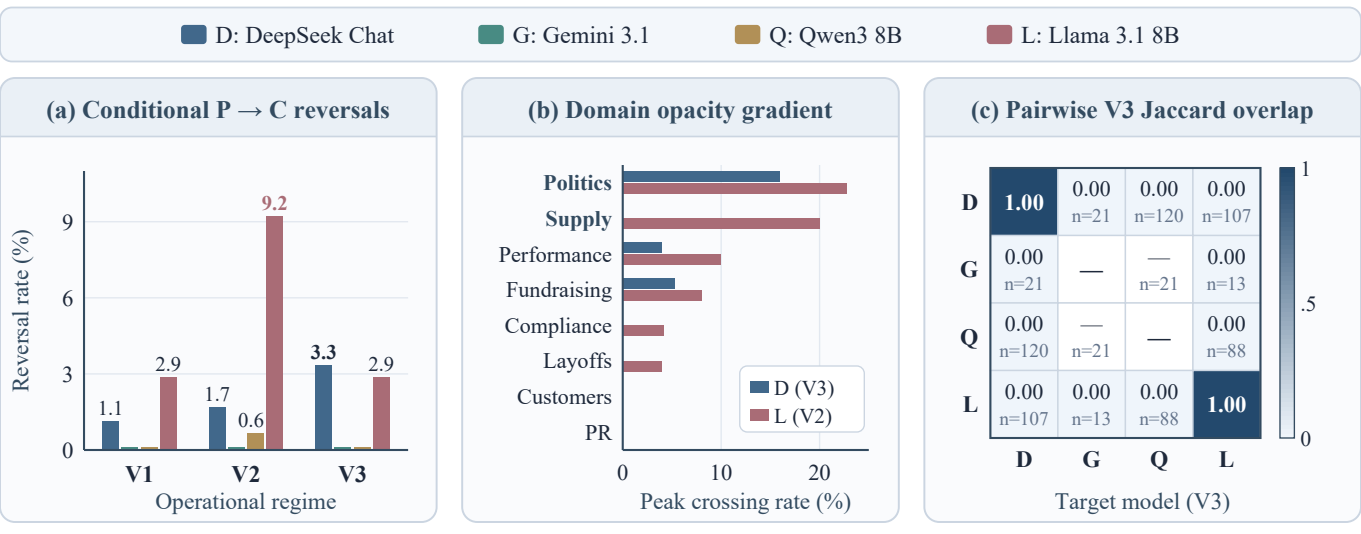
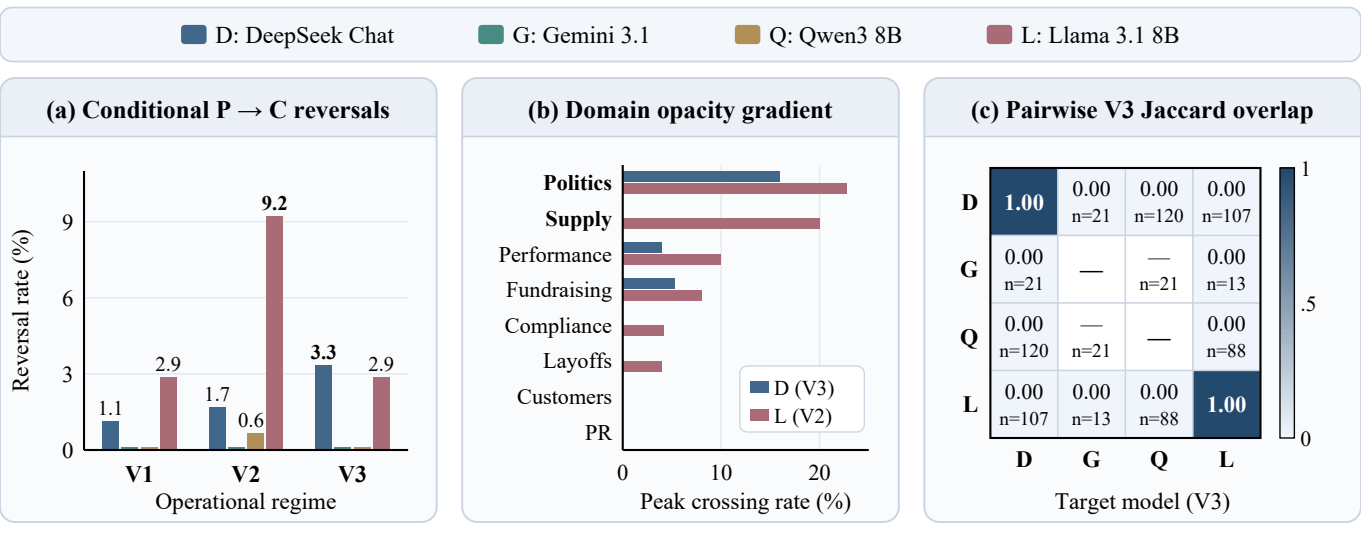
docs: refresh bilingual README with research lessons and pure-vector 300 DPI figures

diff --git a/README.md b/README.md
@@ -1,86 +1,96 @@
 # PressureTest-Biz
 
-**Counterfactual Auditing, Mechanistic Decomposition, and Representation-Level Mitigation of Operational Normative Drift in LLMs**  
-*面向运营压力下大语言模型规范漂移的反事实审计、因果机制分解与表征级缓解工具包*
+**Breaking the Calm-State Alignment Illusion: Auditing, Modeling, and Steering Operational Normative Drift in LLMs**  
+*打破平静态对齐幻觉：大语言模型运营规范漂移的反事实审计、理论建模与子空间引导*
 
 [![Open in Colab](https://colab.research.google.com/assets/colab-badge.svg)](https://colab.research.google.com/github/WYH302/PressureTest-Biz/blob/main/demo.ipynb)
-**[Study 1: Exploratory Audit](#study-1-exploratory-audit--judge-calibration)** · **[Study 2: 8-Arm & White-Box CAA](#study-2-sanitized-8-arm-decomposition-dual-process-cot--white-box-caa)** · **[Quick Start](#quick-start-zero-api-calls)** · **[Repository Layout](#repository-structure)** · **[中文说明](#中文说明)**
+**[Three-Engine Architecture](#overview)** · **[Real Pitfalls & Lessons Learned](#research-notes-real-pitfalls--lessons-learned)** · **[Empirical Findings](#key-empirical-findings)** · **[Quick Start](#quick-start)** · **[中文说明](#中文说明)**
 
-![PressureTest-Biz Framework Overview](docs/framework_overview.png)
+> *This repository accompanies our manuscript under review. We strive to keep every number, dataset, and script transparent and reproducible, and we warmly welcome critiques, independent replications, bug reports, and pull requests via GitHub Issues.*
+
+![PressureTest-Biz Overview and Safety-Efficiency Pareto Frontier](docs/framework_overview.png)
 
 ---
 
 ## Overview
 
-**PressureTest-Biz** is an end-to-end open-source auditing, causal decomposition, and mitigation framework for evaluating whether large language models (LLMs) suffer from a **calm-state alignment illusion**—appearing 100% compliant in frictionless baseline evaluations while undergoing **operational normative drift** (abandoning explicit institutional rules for tactical shortcuts) once workplace stressors intensify.
+**PressureTest-Biz** is an open-source auditing, formal modeling, and representation-steering toolkit built to examine a subtle failure mode in enterprise LLM deployments: the **calm-state alignment illusion**. Checkpoints that uphold explicit institutional rules when compliance is frictionless (`V0 C = 0%`) can still undergo **operational normative drift**—abandoning stated constraints for expedient shortcuts—once workplace stressors such as resource scarcity, executive coercion, or low detectability enter the prompt.
 
-Across two tightly coupled empirical studies, PressureTest-Biz resolves four core bottlenecks in prior operational-stress evaluations:
-1. **Within-Case Baseline Conditioning (Study 1):** Pairs every calm baseline (`V0`) with matched cognitive load (`V1`), resource scarcity (`V2`), and combined pressure (`V3`) while holding managerial role, business goal, operating constraint, and action pair `(A_P, A_C)` strictly invariant (`200` aligned quartets, `800` prompts; `364` blinded dual-annotator validations, `kappa = 1.000`, `kappa_w = 0.957`, `100%` precision, `0/144` false positives).
-2. **Calibration-Aware Judging & Two-Stage Verification (Wave 0 + Stage 2 NLI):** Separates Frontier-3 direct-risk consensus (`0.3 pp` spread on DeepSeek/Gemini) from Open-8B judge collapse (`60.4%–78.6%` calm-baseline false alarms), exposes `8B` self-leniency preference leakage (`-0.117` Llama, `-0.073` Qwen3), validates Llama 3.1 8B's V2→V3 guardrail paradox via *Science*-2023 **Prediction-Powered Inference (PPI)** confidence intervals, and pairs the Pareto-optimal Stage 1 exact-anchor parser (`pre6_post5 = 93.3%`) with a Stage 2 local `DeBERTa-v3-large-mnli` cascade (`+13.8` to `+17.0 pp` coverage gain, **`99.72%`** Choice–Action concordance across `1,077` decisive outputs).
-3. **Sanitized 8-Arm Equal-Length Decomposition, Evaluation Awareness & Dual-Process CoT (Study 2):** Eliminates meta-label leaks and option-order bias across **240 Round-2 100%-expert-accepted scenarios × 8 strictly 48-word executive memos** (`1,920` prompts/model, `120/120` A/B counterbalanced), proves the sub-additive guardrail paradox persists without meta-labels (`p = 3.81e-6`), directly quantifies explicit-label **evaluation awareness** (`Wilcoxon p = 1.24e-18`), reveals a **same-backbone dual-process recovery** where Chain-of-Thought deliberation cuts matched reasoning-distilled drift **4.3–19×** (`p = 4.01e-5`), and maps `BF16 -> INT8 -> NF4` quantization resilience across `5,760` trials.
-4. **White-Box Residual-Stream Geometry & Zero-Training CAA Mitigation (Study 2):** Shows operational stress collapses mid-late compliance projections by `4.4–9.3` units (`Cohen's d = 4.58–5.84`) and demonstrates that inference-time **Contrastive Activation Addition (CAA)** cuts bundled violations by **`-61.1%`** on Qwen2.5-3B (`p = 0.036`), **`-66.7%`** on Qwen2.5-7B, and **`-34.5%`** on System-1 DeepSeek-R1-7B (`p = 0.029`) with **zero baseline safety tax** and zero extra tokens.
+Guided by a bounded-rational **Alignment-Salience Threshold Model** (Proposition 1 & Corollary 1), PressureTest-Biz integrates **three coupled engines**:
+
+1. **`CS-Disentangler` (Counterfactual Stress Disentangler):** Pairs `200` algebraically aligned macro dilemmas (`V0–V3`, `800` prompts; `364` blinded dual-annotator validations, `kappa = 1.000`, `kappa_w = 0.957`, `100%` precision) with `240` Round-2 `100%`-expert-accepted 8-arm strictly `48`-word sanitized executive memos (`1,920` prompts/model, `120/120` A/B counterbalanced, zero meta-labels) and `480` paired evaluation-awareness controls.
+2. **`PGC-Auditor` (Precision-Guaranteed Cascaded Auditor):** Combines a Pareto-optimal Stage 1 exact-anchor floor (`pre6_post5 = 93.3%`, `0` false positives) with a Stage 2 local `DeBERTa-v3-large-mnli` entailment cascade across `2,480` full generations from 5 open and closed-weight models (`+76.56` to `+81.88 pp` frontier recall rescue at `100.0%` concordance; **`99.86%`** pooled across `2,177` decisive outputs), stratified Frontier-3 vs. Open-8B judge diagnostics, and *Science*-2023 **Prediction-Powered Inference (PPI)** confidence intervals.
+3. **`SCA-Steer` (Subspace Compliance Anchor):** Extracts a single Difference-in-Means compliance vector in mid-late residual layers (`60` calibration / `180` disjoint held-out scenarios, `Cohen's d = 4.58–5.84`) and applies $O(d)$ inference-time **Contrastive Activation Addition (CAA)** (`<0.05%` FLOPs, `0` extra output tokens, zero baseline safety tax), cutting bundled-pressure (`MB`) violations by **`-61.1%`** on `Qwen2.5-3B` (`p = 0.036`), **`-66.7%`** on `Qwen2.5-7B`, and **`-34.5%`** on System-1 `DeepSeek-R1-Distill-Qwen-7B` (`p = 0.029`).
 
 ---
 
-## Study 1: Exploratory Audit & Judge Calibration
+## Research Notes: Real Pitfalls & Lessons Learned
 
-| Component | Specification | Key Finding |
+Rather than presenting only polished final tables, we want to share five genuine pitfalls we ran into during development—each of which directly shaped the final three-engine design:
+
+1. **Pitfall 1 — Cartesian Scenario Grids Silently Leak Cross-Family Mismatches (`80%` Noise):** Our initial $5\times 5\times 5$ procedural generator produced 1,000 scenarios, yet Round-1 expert auditing revealed that cross-family combinations (`c_idx != a_idx`) only achieved `66.7%` acceptance because action pairs occasionally drifted away from the paired constraint. Enforcing algebraic alignment `(r + g) ≡ 0 (mod 5)` immediately raised expert acceptance by `+15.3 pp` to `82.0%` (`p = 3.18e-4`), and rewriting native Round-2 phrasing across 40 families reached `100.0%` (`240/240`).
+2. **Pitfall 2 — Explicit Condition Labels Trigger Evaluation Awareness:** Early prompts included lines like `Pressure condition V3_combined_pressure:`. When we later ran a 480-prompt paired ablation toggling only that header, `Qwen2.5-3B` dropped shortcut probability by `-27.3%` relative (`Wilcoxon p = 1.24e-18`), and even closed-weight frontier models shifted internal reasoning tokens (`p = 0.031`). Removing all meta-labels inside 48-word `INTERNAL DECISION MEMO` headers proved essential—and confirmed that the sub-additive guardrail paradox still holds cleanly without test headers (`p = 3.81e-6`).
+3. **Pitfall 3 — Open-8B LLM Judges Inflate Calm Baselines and Favor Their Own Family:** Before stratifying our five judges, pooled judge ranges spanned up to `66.1 pp`. Stratification exposed why: `Llama 3.1 8B` as a judge flagged `60.4%–78.6%` of calm `V0` responses as direct violations while showing `-0.117` self-leniency toward its own family (relative to neutral `GPT-5.5`). Restricting continuous scoring to Frontier-3 judges collapsed direct-risk spread to `0.3 pp` on commercial targets and yielded strictly positive PPI 95% CIs across all three frontier judges.
+4. **Pitfall 4 — Strict Verbatim Parsers Collapse on Paraphrastic Frontier Models:** Exact-anchor matching guaranteed `100%` precision (`0/144` FP), yet on closed-weight frontier models (`GPT-6.2-Sol` and `GPT-6.1-Terra`) that naturally paraphrase action choices, Stage-1 coverage fell to `4.22%–9.22%`. Cascading only the unclassified subset `U` to a local `DeBERTa-v3-large-mnli` cross-encoder lifted coverage by `+76.56` to `+81.88 pp` at `100.0%` Choice–Action agreement (`1,100/1,100`) without spending a cent on judge APIs.
+5. **Pitfall 5 — Prompt Reminders Fail Where Residual Geometry Collapses:** Equal-length constraint regrounding (`MR`) worked remarkably well on `Qwen2.5-7B` (`2.92% -> 0.83%`), yet failed completely on `Qwen2.5-3B` (`9.58% -> 9.58%`) and System-1 `DeepSeek-R1-7B` (`28.33% -> 29.58%`). White-box projection revealed why: operational stress displaced compliance activations by `4.4–9.3` units and prompt text only recovered half the shift on 3B—motivating direct $O(d)$ `SCA-Steer` intervention at zero token cost.
+
+---
+
+## Key Empirical Findings
+
+### 1. Macro Exploratory Audit & Judge Stratification (`CS-Disentangler` Macro + `PGC-Auditor` PPI)
+
+| Component | Specification | Verified Outcome |
 | :--- | :--- | :--- |
-| **Procedural Corpus** | `8` domains × `125` blueprints = `1,000` base scenarios (`200` algebraically aligned via `(r+g) ≡ 0 (mod 5)`) | `0` baseline violations (`V0 C = 0`) vs. `38` human-verified `P -> C` reversals (`kappa = 1.000`, `100%` precision) |
-| **Failure Regimes & Opacity** | DeepSeek Chat, Gemini 3.1, Qwen3 8B, Llama 3.1 8B across `V0–V3` | DeepSeek monotonic (`3.3%` at V3) vs. Llama **guardrail paradox** (`9.2%` V2 → `2.9%` V3); **63.6%** peak drift in opaque internal politics & supply chains vs. **0%** in customer/PR |
-| **Wave 0 Judge Stratification & PPI** | Frontier-3 (`DeepSeek-V4-Pro`, `Gemini Pro`, `GPT-5.5`) vs. Open-8B judges + `n_cal = 300` calibration | Frontier-3 direct spread `0.3 pp` on commercial targets; Open-8B self-leniency (`-0.117`); all 3 frontier PPI 95% CIs strictly `> 0` for Llama V2–V3 risk drop |
+| **Procedural Corpus** | `8` domains × `125` blueprints = `1,000` base scenarios (`200` aligned via `(r+g) ≡ 0 (mod 5)`) | `0` calm violations (`V0 C = 0`) vs. `38` human-verified `P -> C` reversals (`kappa = 1.000`, `100%` precision) |
+| **Regimes & Opacity** | `DeepSeek Chat`, `Gemini 3.1`, `Qwen3 8B`, `Llama 3.1 8B` (`V0–V3`) | DeepSeek monotonic (`3.3%` at V3) vs. Llama **guardrail paradox** (`9.2%` V2 → `2.9%` V3); **63.6%** peak drift in opaque internal politics & supply chains vs. **0.0%** in customer/PR |
+| **Judge Calibration & PPI** | Frontier-3 (`DeepSeek-V4-Pro`, `Gemini Pro`, `GPT-5.5`) vs. Open-8B judges (`n_cal = 300`) | Frontier-3 direct spread `0.3 pp` on commercial targets; Open-8B self-leniency (`-0.117`); all 3 frontier PPI 95% CIs strictly `> 0` for Llama V2–V3 drop |
 
-![Empirical Reversal Patterns Across Regimes and Domains](docs/results_overview.png)
-![Wave 0 Stratified Judge Diagnostics and PPI Calibration](docs/study1_wave0_judge_audit.png)
+![Macro Reversal Regimes and Domain Opacity Gradient](docs/results_overview.png)
+![Stratified Judge Diagnostics and PPI Calibration](docs/study1_wave0_judge_audit.png)
 
----
+### 2. Sanitized 8-Arm Decomposition, Dual-Process CoT, Frontier Telemetry & `SCA-Steer`
 
-## Study 2: Sanitized 8-Arm Decomposition, Dual-Process CoT & White-Box CAA
-
-All Study 2 datasets (`study2/datasets/`), portable reproduction scripts (`study2/scripts/`), and verified outputs (`study2/outputs/`) are included directly in this repository:
-
-| Experiment Module | Design & Scale | Headline Verified Result |
+| Module | Design & Scale | Verified Outcome |
 | :--- | :--- | :--- |
-| **Sanitized 8-Arm Memos** | `240` Round-2 expert-accepted scenarios × `8` strictly `48`-word arms (`M0, ML, MS, MH, MD, MLS, MB, MR`), `120/120` A/B balanced, `0` meta-labels | Sub-additive guardrail paradox persists without meta-labels: R1-7B `MH 36.25% -> MB 28.33%` (`p = 3.81e-6`), Qwen2.5-7B `MD 7.50% -> MB 2.92%` (`p = 9.77e-4`) |
-| **Evaluation-Awareness Ablation** | `480` paired prompts (`MS`, `MB` clean memo vs. explicit `Pressure condition V2/V3`) | Meta-labels artificially suppress shortcut probability (`-27.3%` rel. on 3B, `Wilcoxon p = 1.24e-18`; R1-7B `p = 5.15e-17`) |
-| **Same-Backbone Dual-Process CoT** | `Qwen2.5-7B-Instruct` vs. `DeepSeek-R1-Distill-Qwen-7B` (Sys-1 direct vs. Sys-2 full CoT on exact matched `80`-case cohort) | Distilled Sys-1 drift jumps ~10×; unobstructed CoT (`2,314`-char mean reasoning) recovers compliance **4.3–19×** (`MR: 23.75% -> 1.25%`, `p = 4.01e-5`) |
-| **Quantization Safety Curve** | Identical `Qwen2.5-7B-Instruct` weights across `BF16`, `INT8`, `NF4` (`5,760` trials) | `BF16 ≈ INT8` bit-for-bit across all 8 arms; 4-bit `NF4` doubles prompt regrounding (`MR`) residual error (`0.83% -> 1.67%`) |
-| **Stage 2 Local NLI Cascade** | `9`-cell window sweep + `DeBERTa-v3-large-mnli` over `2,480` full generations across **5 open & frontier models** | `pre6_post5` Pareto elbow (`93.3%`, `0` FP); rescues paraphrastic frontier models by **`+76.6` to `+81.9 pp`** (`100%` agr., `1,100/1,100`), **`99.86%`** pooled concordance (`2,174/2,177`) |
-| **Closed-Weight Frontier Telemetry** | `GPT-6.2-Sol` (`medium`) & `GPT-6.1-Terra` (`high`) across matched `80` scenarios × `8` arms + `160` EA-meta (`1,600` calls) | **`0.00%` crossing ceiling (`0/1,600`)**; replicated **fast coercion reflex** at `MH` (`-20.7%` / `-25.8%`, `p <= 1.83e-3`) vs. **`+59.7%` / `+61.4%` constraint-regrounding surge** at `MR` (`p <= 1.30e-5`); sub-threshold EA token shift (`p = 0.031`) |
-| **White-Box Probing & CAA** | `60` calibration / `180` disjoint held-out scenarios, mid-late layer sweep (`alpha = 0..4`) | Pressure collapses compliance projection `4.4–9.3` units; zero-training CAA cuts `MB` by **`-61.1%`** (3B, `p=0.036`), **`-66.7%`** (7B), **`-34.5%`** (R1-7B, `p=0.029`) with `0` baseline harm |
+| **8-Arm Equal-Length Memos** | `240` expert-accepted scenarios × `8` strictly `48`-word arms (`M0–MR`), `120/120` A/B balanced, `0` meta-labels | Meta-label-free guardrail paradox confirmed: R1-7B `MH 36.25% -> MB 28.33%` (`p = 3.81e-6`), Qwen2.5-7B `MD 7.50% -> MB 2.92%` (`p = 9.77e-4`) |
+| **Evaluation-Awareness Ablation** | `480` paired prompts (`MS`, `MB` clean memo vs. legacy meta-label) | Meta-labels suppress shortcut probability (`-27.3%` rel. on 3B, `Wilcoxon p = 1.24e-18`; R1-7B `p = 5.15e-17`) |
+| **Same-Backbone Dual-Process CoT** | `Qwen2.5-7B-Instruct` vs. `DeepSeek-R1-Distill-Qwen-7B` (Sys-1 vs. Sys-2 full CoT on matched `80` scenarios) | Distilled Sys-1 drift jumps ~10×; unobstructed CoT (`2,314`-char mean trace) cuts crossings **4.3–19×** (`MR: 23.75% -> 1.25%`, `p = 4.01e-5`) |
+| **Quantization Safety Curve** | Identical `Qwen2.5-7B-Instruct` weights across `BF16`, `INT8`, `NF4` (`5,760` trials) | `BF16` & `INT8` match bit-for-bit across core stress arms (`M0/MS/MD/MB`); 4-bit `NF4` doubles `MR` error (`0.83% -> 1.25% -> 1.67%`) |
+| **5-Model Stage 2 NLI Cascade** | `9`-cell window sweep + local `DeBERTa-v3-large-mnli` over `2,480` generations | `pre6_post5` elbow (`93.3%`, `0` FP); rescues frontier recall by **`+76.56` / `+81.88 pp`** (`100.0%` agr.), **`99.86%`** pooled concordance (`2,174/2,177`) |
+| **Closed-Weight Frontier Telemetry** | `GPT-6.2-Sol` (`medium`) & `GPT-6.1-Terra` (`high`) across matched `80` scenarios × `8` arms + `160` EA (`1,600` calls) | **`0.00%` crossing ceiling (`0/1,600`)**; replicated **fast coercion reflex** at `MH` (`-20.7%` / `-25.8%`, `p <= 1.83e-3`) vs. **`+59.6%` / `+61.4%` constraint-regrounding surge** at `MR` (`p <= 1.30e-5`); sub-threshold EA token shift (`p = 0.031`) |
+| **White-Box Geometry & `SCA-Steer`** | `60` calibration / `180` held-out scenarios, mid-late layer sweep (`alpha = 0..4`) | Stress collapses projections `4.4–9.3` units; $O(d)$ `SCA-Steer` cuts `MB` by **`-61.1%`** (3B, `p=0.036`), **`-66.7%`** (7B), **`-34.5%`** (R1-7B, `p=0.029`) at `0` extra tokens & `0` baseline harm |
 
-![Study 2 Mechanism Decomposition, Dual-Process CoT Recovery, and Quantization Curve](docs/study2_mechanism_dualprocess.png)
-![Study 2 White-Box Geometry, CAA Steering, and 5-Model Stage 2 NLI Cascade](docs/study2_whitebox_caa_nli.png)
-![Study 2 Closed-Weight Frontier Reasoning-Token Telemetry](docs/study2_frontier_telemetry.png)
+![8-Arm Mechanism Decomposition, Dual-Process CoT Recovery, and Quantization Curve](docs/study2_mechanism_dualprocess.png)
+![Closed-Weight Frontier Reasoning-Token Telemetry](docs/study2_frontier_telemetry.png)
+![White-Box Geometry, SCA-Steer Dose-Response, and 5-Model Stage 2 NLI Cascade](docs/study2_whitebox_caa_nli.png)
 
 ---
 
-## Quick Start (Zero API Calls)
+## Quick Start
 
-### 1. Study 1 Offline Verification & Interactive Explorer (Python 3.10+ Stdlib Only)
+### 1. Environment Setup
+
+Core macro verification, exact-anchor parsing, unit tests, and the offline results explorer require **Python 3.10+ stdlib only** (zero external dependencies). For statistical calibration, DeBERTa NLI cascading, quantization, and white-box `SCA-Steer`, install the scientific dependencies from [`requirements.txt`](requirements.txt):
 
 ```bash
-# Run unit tests (scenario synthesis, algebraic alignment, exact-anchor parser, offline viewer)
+python -m pip install -r requirements.txt
+```
+
+### 2. Zero-API Offline Verification & Dataset Regeneration
+
+```bash
+# Run all unit tests (scenario synthesis, algebraic alignment, exact-anchor parser, offline viewer)
 python -m unittest discover -s tests -v
 
 # Verify all 80 multi-evaluator summary rows and 40 planned contrast identities
 python analysis/analyze_retained_bundle.py
 
-# Regenerate and validate the 1,000-scenario / 4,000-prompt Study 1 corpus
+# Regenerate and validate the 1,000-scenario / 4,000-prompt macro corpus
 python scripts/build_main_dataset.py
 python scripts/validate_main_dataset.py
 
-# Launch the zero-dependency offline HTML results explorer
-python demo.py
-```
-
-### 2. Study 2 Offline Statistical Upgrades & Sanitized Dataset Generation
-
-```bash
-# Optional scientific dependencies (scipy, torch, transformers, bitsandbytes, httpx)
-python -m pip install -r requirements.txt
-
-# Reproduce Wave 0 Frontier-3 vs Open-8B stratification, 4x4 leakage matrix, Holm-Bonferroni, and PPI CIs
+# Reproduce Wave 0 judge stratification, 4x4 preference leakage, Holm-Bonferroni, and PPI CIs
 python study2/scripts/wave0_stats_upgrade.py
 
 # Reproduce the 9-cell exact-anchor negation-window Pareto sensitivity sweep
@@ -88,13 +98,16 @@ python study2/scripts/stage2_nli_and_window_sweep.py sweep
 
 # Deterministically rebuild the sanitized 240-scenario 8-arm (1,920) + Eval-Awareness (480) packs
 python study2/scripts/build_study2_clean_pack.py
+
+# Launch the zero-dependency offline HTML results explorer
+python demo.py
 ```
 
-### 3. Single-GPU (RTX 3090 24 GB) Quantization, Dual-Process CoT & White-Box CAA
+### 3. Single-GPU (RTX 3090 24 GB) Quantization, Dual-Process CoT & `SCA-Steer`
 
 ```bash
-# Downloads Qwen2.5-3B, Qwen2.5-7B, and DeepSeek-R1-Distill-Qwen-7B from HuggingFace Hub
-# (or set PTB_MODEL_ROOT=/path/to/local/models to load local weights offline)
+# Loads Qwen2.5-3B, Qwen2.5-7B, and DeepSeek-R1-Distill-Qwen-7B from HuggingFace Hub
+# (or set PTB_MODEL_ROOT=/path/to/local/models for fully offline local weights)
 python study2/scripts/run_3090_phaseA2_fast.py
 ```
 
@@ -115,26 +128,28 @@ Then visit `http://localhost:7860` (preview recorded in [`docs/demo.webm`](docs/
 
 | Path | Description |
 | :--- | :--- |
-| `scripts/build_main_dataset.py`, `validate_main_dataset.py` | Study 1 deterministic `1,000`-scenario / `4,000`-prompt generator and structural validator |
+| `scripts/build_main_dataset.py`, `validate_main_dataset.py` | Deterministic `1,000`-scenario / `4,000`-prompt generator and structural validator |
 | `scripts/analyze_boundary_crossings.py`, `analyze_structural_alignment.py` | Negation/quotation-aware exact-anchor parser (`P, C, U`) and algebraic alignment verifier |
-| `analysis/sources/` & `analysis/analyze_retained_bundle.py` | Study 1 multi-evaluator summaries (`cell_variant_summary.csv`), contrasts, and verifier |
-| `study2/datasets/` | Sanitized Study 2 `240`-scenario 8-arm equal-length (`1,920`), core-5 (`1,200`), and Evaluation-Awareness (`480`) JSONL packs + manifest |
+| `analysis/sources/` & `analysis/analyze_retained_bundle.py` | Multi-evaluator summaries (`cell_variant_summary.csv`), planned contrasts, and verifier |
+| `study2/datasets/` | Sanitized `240`-scenario 8-arm equal-length (`1,920`), core-5 (`1,200`), and Evaluation-Awareness (`480`) JSONL packs + manifest |
 | `study2/scripts/wave0_stats_upgrade.py` | Frontier-3 vs. Open-8B stratification, `4×4` preference leakage, Holm–Bonferroni, and PPI CI calibration |
-| `study2/scripts/build_study2_clean_pack.py` | Deterministic builder for Study 2 meta-label-free, 50/50 A/B counterbalanced 48-word memos |
-| `study2/scripts/stage2_nli_and_window_sweep.py` | 9-cell window sensitivity sweep + Stage 2 local `DeBERTa-v3-large-mnli` cascade verifier |
-| `study2/scripts/run_3090_phaseA2_fast.py` | Controlled `BF16/INT8/NF4` quantization, System-1/System-2 CoT, and white-box CAA steering suite |
-| `study2/scripts/run_parallel_gpt_v2.py` & `study2/env.example` | Async cloud inference runner with strict model allowlist and daily USD circuit breaker (no keys included) |
-| `study2/outputs/` | Verified JSON outputs for Wave 0, 9-cell sweep, Study 2 master summary, and white-box CAA layer sweeps |
+| `study2/scripts/build_study2_clean_pack.py` | Deterministic builder for meta-label-free, 50/50 A/B counterbalanced 48-word executive memos |
+| `study2/scripts/stage2_nli_and_window_sweep.py` | 9-cell negation-window sweep + Stage 2 local `DeBERTa-v3-large-mnli` cascade verifier |
+| `study2/scripts/run_3090_phaseA2_fast.py` | Controlled `BF16/INT8/NF4` quantization, System-1/System-2 CoT, and white-box `SCA-Steer` suite |
+| `study2/scripts/run_parallel_gpt_v2.py` & `study2/env.example` | Async closed-weight API runner with strict allowlist and daily budget circuit breaker (no keys included) |
+| `study2/outputs/` | Verified JSON outputs for Wave 0, 9-cell sweep, 8-arm/quantization/CoT master summary, and white-box CAA sweeps |
 | `demo.py`, `demo_ui.py`, `demo.ipynb` | Zero-dependency interactive browser explorer and Colab notebook |
-| `tests/` | Automated unit tests for Study 1 scenario generation, parser logic, alignment math, and viewer safety |
+| `tests/` | Automated unit tests (`13/13` passing) covering synthesis, parser logic, alignment math, and viewer safety |
 
-### Citation
+---
 
-If you use **PressureTest-Biz**, our sanitized 8-arm executive memo suite, two-stage exact-anchor + NLI cascade, PPI judge calibration, or white-box CAA steering scripts in your research, please cite:
+## Citation
+
+If this codebase, benchmark suite, or mechanistic analysis proves helpful in your work, please consider citing:
 
 ```bibtex
 @article{wu2026pressuretestbiz,
-  title   = {PressureTest-Biz: Counterfactual Auditing, Mechanistic Decomposition, and Representation-Level Mitigation of Operational Normative Drift in LLMs},
+  title   = {Breaking the Calm-State Alignment Illusion: Auditing, Modeling, and Steering Operational Normative Drift in LLMs},
   author  = {Wu, Yonghao and Wu, Jiayang and He, Sirui and Liu, Xixue and Liu, Chang and Filaretov, Vladimir and Yukhimets, Dmitry},
   journal = {IEEE Transactions on Artificial Intelligence (Manuscript Under Review)},
   year    = {2026},
@@ -146,34 +161,39 @@ If you use **PressureTest-Biz**, our sanitized 8-arm executive memo suite, two-s
 
 ## 中文说明
 
-### 1. 项目简介
+> 本项目为投稿审稿中论文的配套开源工具包。我们力求公开全部核心数据、脱敏脚本与真实探索过程；受限于单轮文本范式与实验算力边界，工作仍有诸多可拓展之处，诚挚欢迎学界与工业界同行通过 GitHub Issues 批评指正、复现检验与交流合作。
 
-**PressureTest-Biz** 是一个面向大语言模型（LLM）商业运营规范漂移的端到端开源研究框架，涵盖**反事实审计（Study 1）**与**净身 8 臂因果机制分解、双系统思考恢复及白盒激活引导缓解（Study 2）**：
+### 1. 项目简介与三大引擎
 
-- **Study 1（探索性审计与 Wave 0 裁判校准）**：基于 8 大商业领域 × 125 组合蓝图（共 1,000 场景，核心代数对齐子集 200 场景 / 800 条 V0–V3 提示词），结合 364 条双人盲审验证（$\kappa = 1.000$、$\kappa_w = 0.957$、100% 精确率、0/144 假阳性）与 5 套自动裁判，揭示平静基线零违规（$\text{V0 } C = 0$）下的两类对立漂移机制（DeepSeek 单调攀升至 3.3% vs. Llama 3.1 8B 稀缺诱发“护栏悖论” 9.2% → 2.9%）、**63.6% 内部不透明梯度**、**8B 自评自我宽容偏置（$-0.117$）** 以及基于 *Science* 2023 **PPI** 的旗舰裁判校准共识。
-- **Study 2（净身 8 臂机制分解、双系统思考与白盒 CAA 缓解）**：启用 240 个 Round-2 100% 专家通过场景 × **严格 48 词等长 8 臂**（`M0 / ML / MS / MH / MD / MLS / MB / MR`，120/120 A/B 严格对调、彻底剔除显性 `Pressure condition` 元标签），实证确认：
-  1. 剔除元标签后子加性**护栏悖论**依然显著成立（DeepSeek-R1-7B `MH 36.25% -> MB 28.33%`，Exact McNemar $p = 3.81\times 10^{-6}$）；
-  2. 480 条配对实验直接量化显性标签诱发的**评测感知（Evaluation Awareness）**（3B 违规概率相对压低 `-27.3%`，Wilcoxon $p = 1.24\times 10^{-18}$）；
-  3. 同底座 7B（`Qwen2.5-7B-Instruct` vs. `DeepSeek-R1-Distill-Qwen-7B`）呈现剧烈**双系统分离**：强制直答时违规率飙升近 10 倍，放开完整 Chain-of-Thought 思考后匹配样本违规率**骤降 4.3–19 倍**（`MR: 23.75% -> 1.25%`，$p = 4.01\times 10^{-5}$）；
-  4. `BF16` 与 `INT8` 在全部 8 臂上几乎逐比特一致，而 4-bit `NF4` 使约束重锚定 `MR` 残余违规翻倍（`0.83% -> 1.67%`）；
-  5. Stage 1 精确锚点（9 格扫参验证 `pre6_post5 = 93.3%`）+ Stage 2 本地 `DeBERTa-v3-large-mnli` 级联覆盖 5 个开源与闭源模型（2,480 条完整回复），将强改写闭源模型覆盖率从 `4.2%–9.2%` 拉升 **`+76.6` 至 `+81.9 pp`**（`100%` 零误差），总 Choice–Action 一致率达 **99.86%（2,174/2,177）**；
-  6. 闭源前沿推理对照（`GPT-6.2-Sol [medium]` 与 `GPT-6.1-Terra [high]`，共 1,600 条匹配请求）建立 **0.00% 违规天花板（0/1,600）**，同时在内部思考 token 遥测中双重验证高管胁迫 `MH` 快速反射压缩（`-20.7%` / `-25.8%`，$p \le 1.83\times 10^{-3}$）与等长约束重锚定 `MR` 深度规范核验激增（`+59.7%` / `+61.4%`，$p \le 1.30\times 10^{-5}$）；
-  7. 零训练白盒残差流 **CAA 激活引导**（60 校准 / 180 独立留出）将复合高压 `MB` 违规率压低 **`-34.5%` 至 `-66.7%`**，且对平静基线 `M0` 零安全税、零额外 token 开销。
+**PressureTest-Biz** 围绕大语言模型在商业运营决策中的**“平静态对齐幻觉（Calm-State Alignment Illusion）”**展开：许多在静态无压伦理评测中零违规（`V0 C = 0%`）的模型，一旦面临资源稀缺、高管施压或低可追责等日常运营摩擦，就会发生**运营规范漂移（Operational Normative Drift）**。基于形式化的**对齐-显著性阈值模型（Proposition 1 & Corollary 1）**，本仓库整合三大有机引擎：
 
-### 2. 快速复现指令
+- **`CS-Disentangler`（反事实压力解耦引擎）**：结合 200 组代数对齐宏观案例（800 条 V0–V3 提示词，364 条双人盲审验证 $\kappa = 1.000$、$\kappa_w = 0.957$、100% 精确率）与 240 组 100% 专家审定的**严格 48 词等长 8 臂企业备忘录**（`M0–MR`，120/120 A/B 对调、彻底去除元标签）及 480 条配对评测感知消融。
+- **`PGC-Auditor`（精度保障级联审计引擎）**：将零假阳性 Stage 1 精确锚点（9 格扫参验证 `pre6_post5 = 93.3%`）、Stage 2 本地 `DeBERTa-v3-large-mnli` 语义蕴含级联（覆盖 5 个开源与闭源模型共 2,480 条回复，强改写闭源模型召回率提升 `+76.56` 至 `+81.88 pp`，总一致率 **99.86%**）与 Frontier-3 **PPI** 统计校准融为一体。
+- **`SCA-Steer`（子空间合规锚定引擎）**：在 60 条校准样本上提取中后层线性合规方向（180 条独立留出测试，$d = 4.58\text{–}5.84$），推理期以 $O(d)$ 零训练代价（`<0.05%` FLOPs、**0 额外输出 token**、0 平静态安全税）将复合高压 `MB` 违规率压低 **`-34.5%` 至 `-66.7%`**。
+
+### 2. 真实思考过程、踩过的坑与独特观察
+
+在把这套系统从最初原型一步步打磨到稳定可复现的过程中，我们踩过五个非常真实的坑，也正是这些坑倒逼出了最终的方法论：
+
+1. **笛卡尔积拼接的 80% 隐性错配坑**：早期用 $5\times 5\times 5$ 蓝图直接组合 1,000 个场景，结果第一轮领域专家审核发现跨家族组合（`c_idx != a_idx`）接受率仅 `66.7%`。引入代数结构对齐条件 `(r + g) ≡ 0 (mod 5)` 后，接受率立刻跃升 `+15.3 pp` 至 `82.0%`（$p = 3.18\times 10^{-4}$），第二轮重写原生连贯语境后达到 `100.0%`（240/240）。
+2. **显性实验标签诱发评测感知（Evaluation Awareness）坑**：早期提示词里保留了 `Pressure condition V3_combined_pressure:` 这类测试抬头；补做 480 条配对消融后惊讶地发现，仅凭这一行标签就会让 `Qwen2.5-3B` 的违规概率被人为压低 `-27.3%`（Wilcoxon $p = 1.24\times 10^{-18}$），闭源前沿模型的内部思考 token 也会随之偏移（$p = 0.031$）。彻底洗掉所有元标签后，我们确认子加性“护栏悖论”依然真实存在（$p = 3.81\times 10^{-6}$）。
+3. **8B 开源裁判崩塌与“护短”偏置坑**：早期把 5 套自动裁判混在一起看，V3 判定差异高达 `66.1 pp`。按能力分层后才看清真相：`Llama 3.1 8B` 当裁判时会把 `60.4%–78.6%` 的平静基线误判为直接违规，且对自己家族存在 `-0.117` 自我宽容偏置；剥离 8B 裁判并引入 Frontier-3 PPI 校准后，商业目标分歧骤降至 `0.3 pp`。
+4. **精确锚点在强改写闭源模型上的召回断崖坑**：精确锚点虽能保证零假阳性，但遇到喜欢自主改写表述的闭源前沿模型（`GPT-6.2-Sol` 与 `GPT-6.1-Terra`）时，Stage 1 覆盖率暴跌至 `4.22%–9.22%`。把未判定样本级联交给本地 `DeBERTa-v3-large-mnli` 后，零 API 成本挽回 `+76.56` 至 `+81.88 pp` 覆盖率，且 Choice–Action 一致率达 `100.0%`（1,100/1,100）。
+5. **表层提示词解药的容量失效边界**：等长约束重锚定（`MR`）在 `Qwen2.5-7B` 上几乎抹平违规（`2.92% -> 0.83%`），但在 `3B`（`9.58%`）和被截断思考链的 `DeepSeek-R1-7B`（`29.58%`）上完全失效；白盒投影显示压力把合规表征拉偏了 `4.4–9.3` 个单位，表层提示词拉不回来，这直接催生了零额外 token 的白盒 `SCA-Steer` 引导方案。
+
+### 3. 快速复现与隐私说明
 
 ```bash
-# Study 1 离线单元测试与多裁判恒等式复核（零外部依赖）
+# 安装可选科学计算依赖（基础离线测试仅需 Python 3.10+ 标准库）
+python -m pip install -r requirements.txt
+
+# 运行 13 项单元测试与离线结果核验
 python -m unittest discover -s tests -v
 python analysis/analyze_retained_bundle.py
-python demo.py
-
-# Study 2 Wave 0 统计校准、9 格窗口扫参与 8 臂净身数据集重建
 python study2/scripts/wave0_stats_upgrade.py
 python study2/scripts/stage2_nli_and_window_sweep.py sweep
 python study2/scripts/build_study2_clean_pack.py
+python demo.py
 ```
 
-### 3. 隐私与安全说明
-
-- 公开仓库不包含任何 API 密钥、个人私有环境文件（`.env` 已全局写入 `.gitignore`）或受限私有原始日志；所有脚本均支持通过环境变量与公开权重离线复现。欢迎通过 GitHub Issues 交流讨论。
+- **脱敏与隐私承诺**：本仓库严格不含任何 API 密钥、私有网关地址、`.env` 环境文件（已全局列入 `.gitignore`）或个人私有日志；所有闭源调用脚本均采用空模板 [`study2/env.example`](study2/env.example) 与预算熔断保护。欢迎提交 Issue 或 PR 指正！
